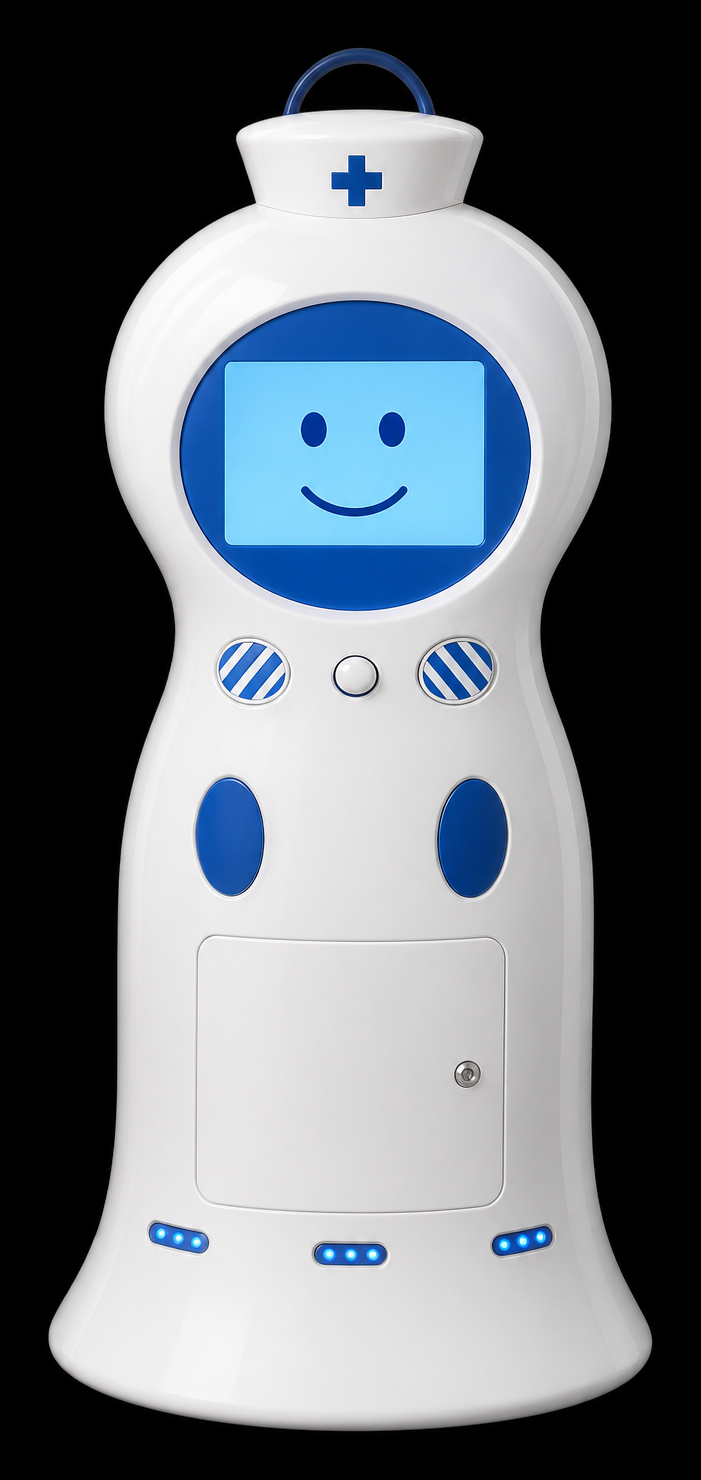
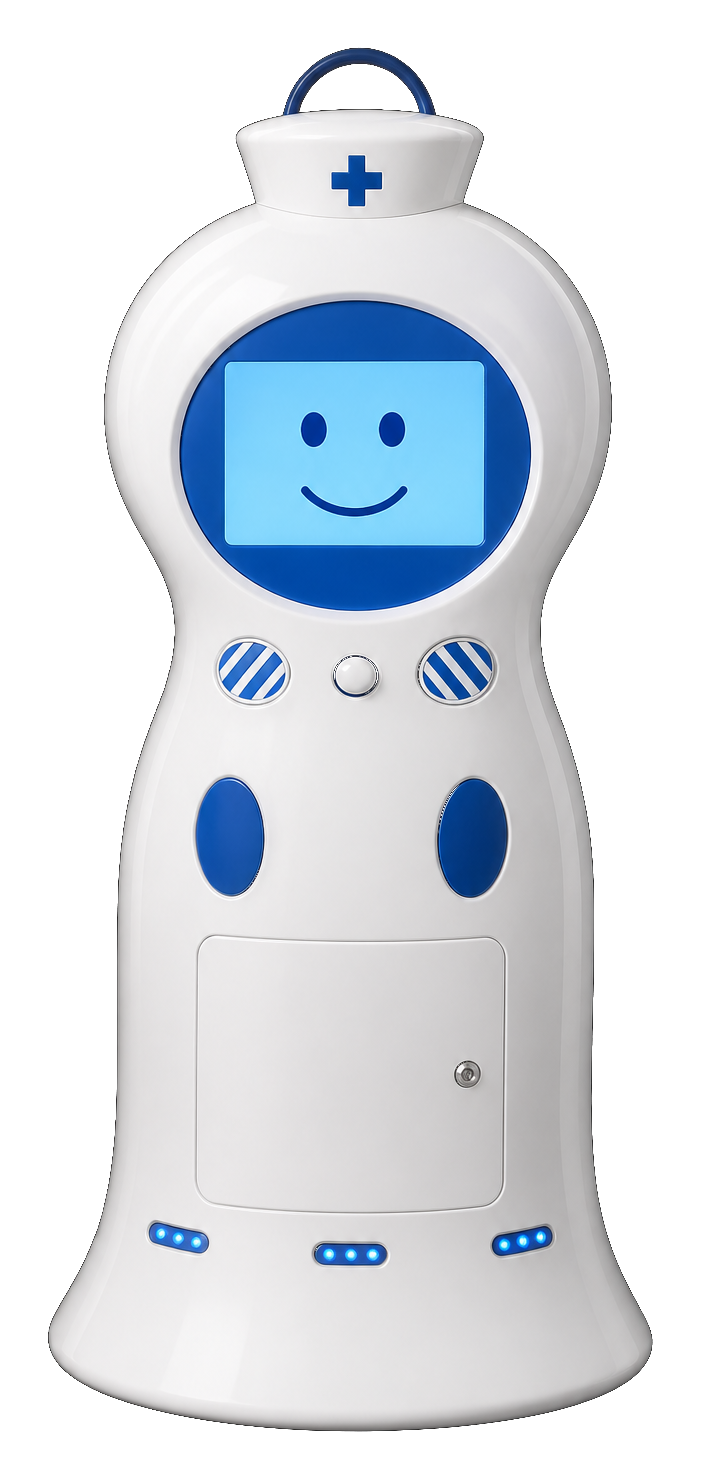
Quitar el fondo negro del prototipo de ICARO y dejar PNG transparente.

diff --git a/index.html b/index.html
@@ -135,7 +135,7 @@
           </span>
         </div>
         <div class="feature-art">
-          <img class="feature-preview" src="icaro/icaro.png?v=4" alt="Prototipo de ICARO" width="701" height="1480" loading="lazy">
+          <img class="feature-preview" src="icaro/icaro.png?v=5" alt="Prototipo de ICARO" width="701" height="1480" loading="lazy">
         </div>
       </div>
     </a>

diff --git a/icaro/index.html b/icaro/index.html
@@ -49,7 +49,7 @@
       </div>
     </div>
     <div class="phead-art">
-      <img class="product-img" src="icaro.png?v=4" alt="Prototipo de ICARO" width="701" height="1480" loading="lazy">
+      <img class="product-img" src="icaro.png?v=5" alt="Prototipo de ICARO" width="701" height="1480" loading="lazy">
     </div>
   </div>
 </section>
